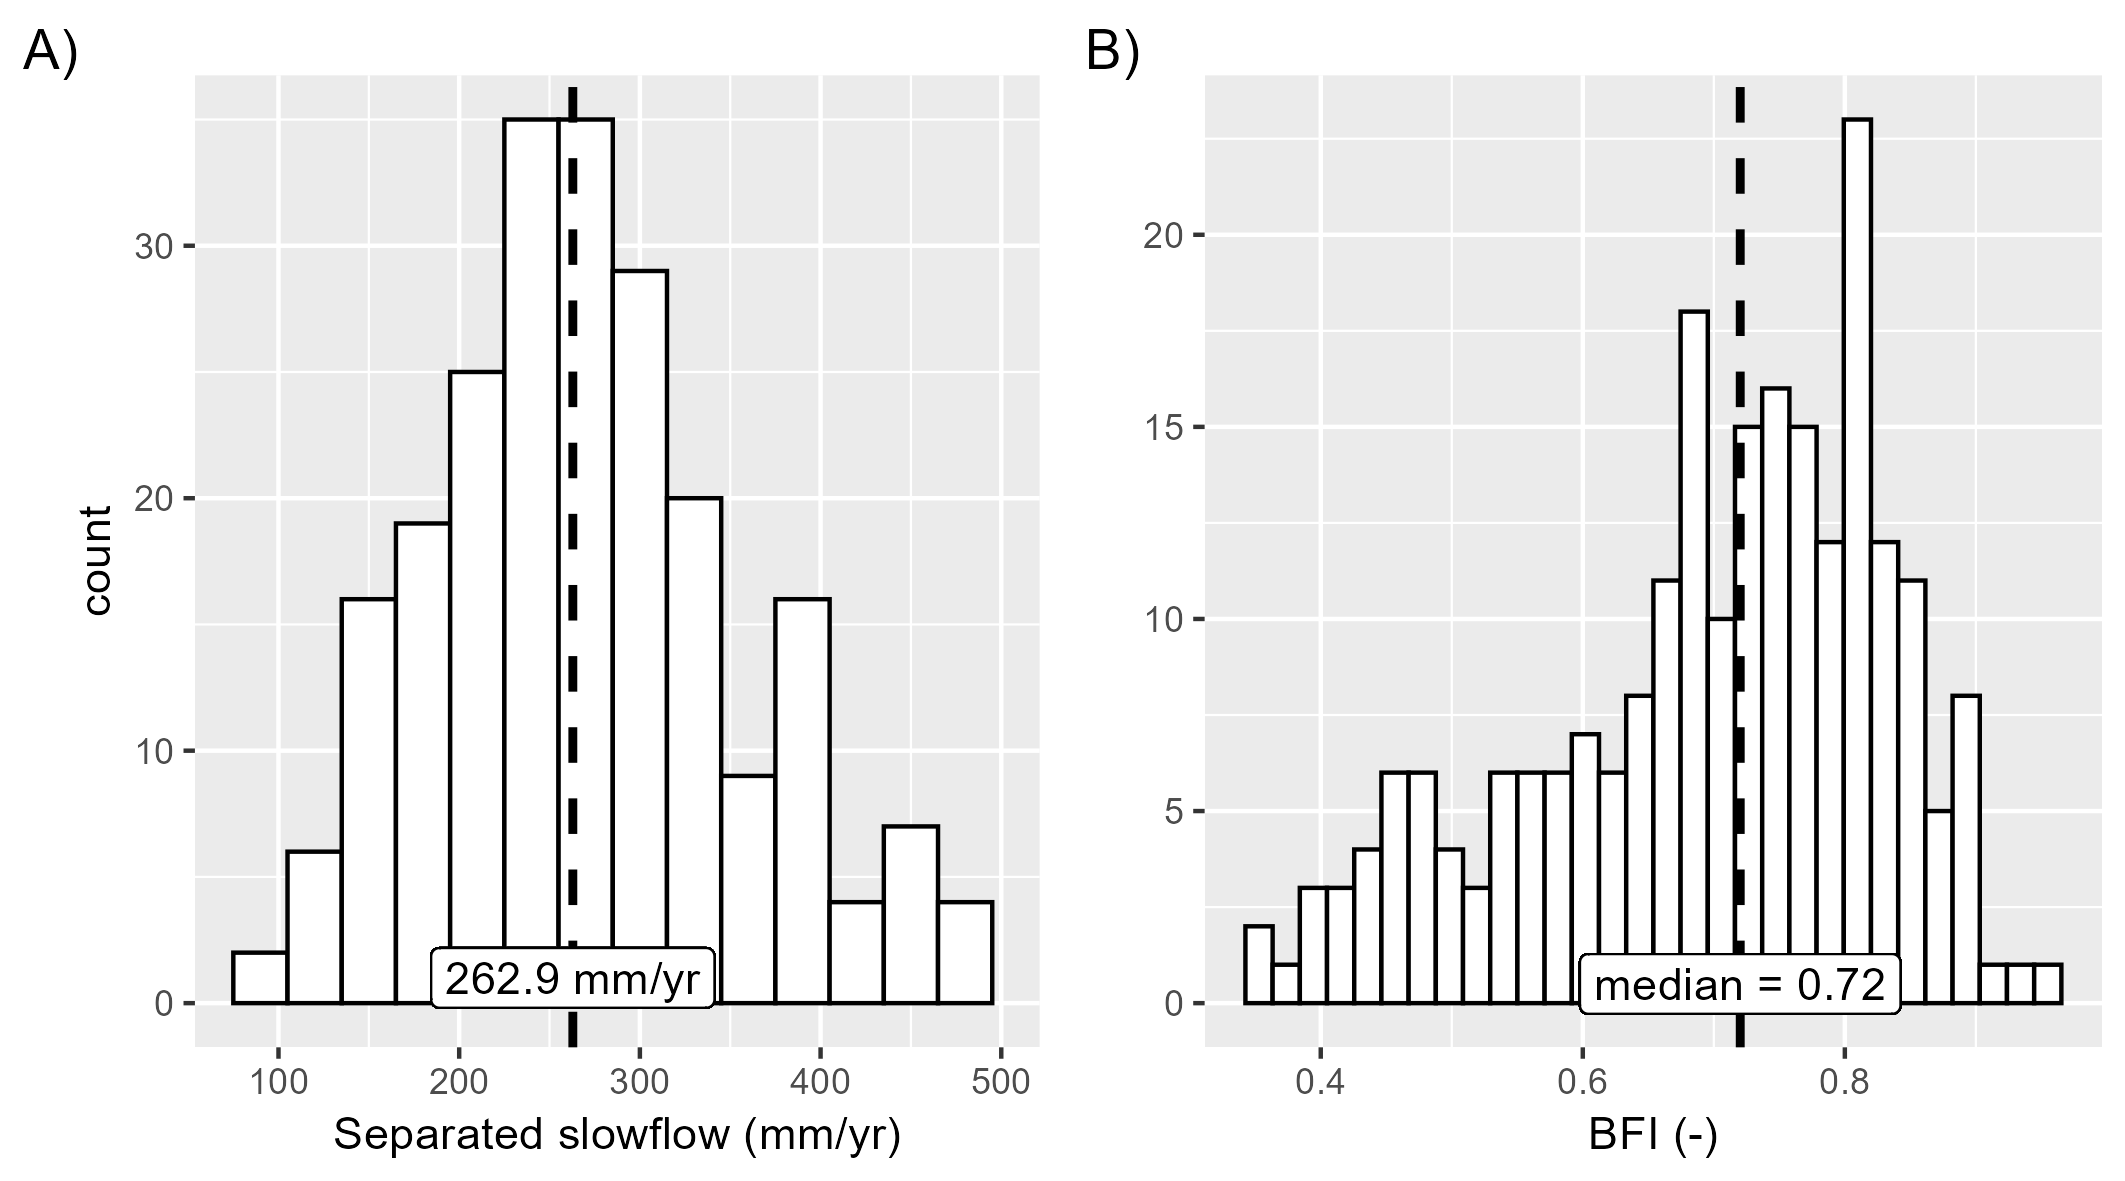
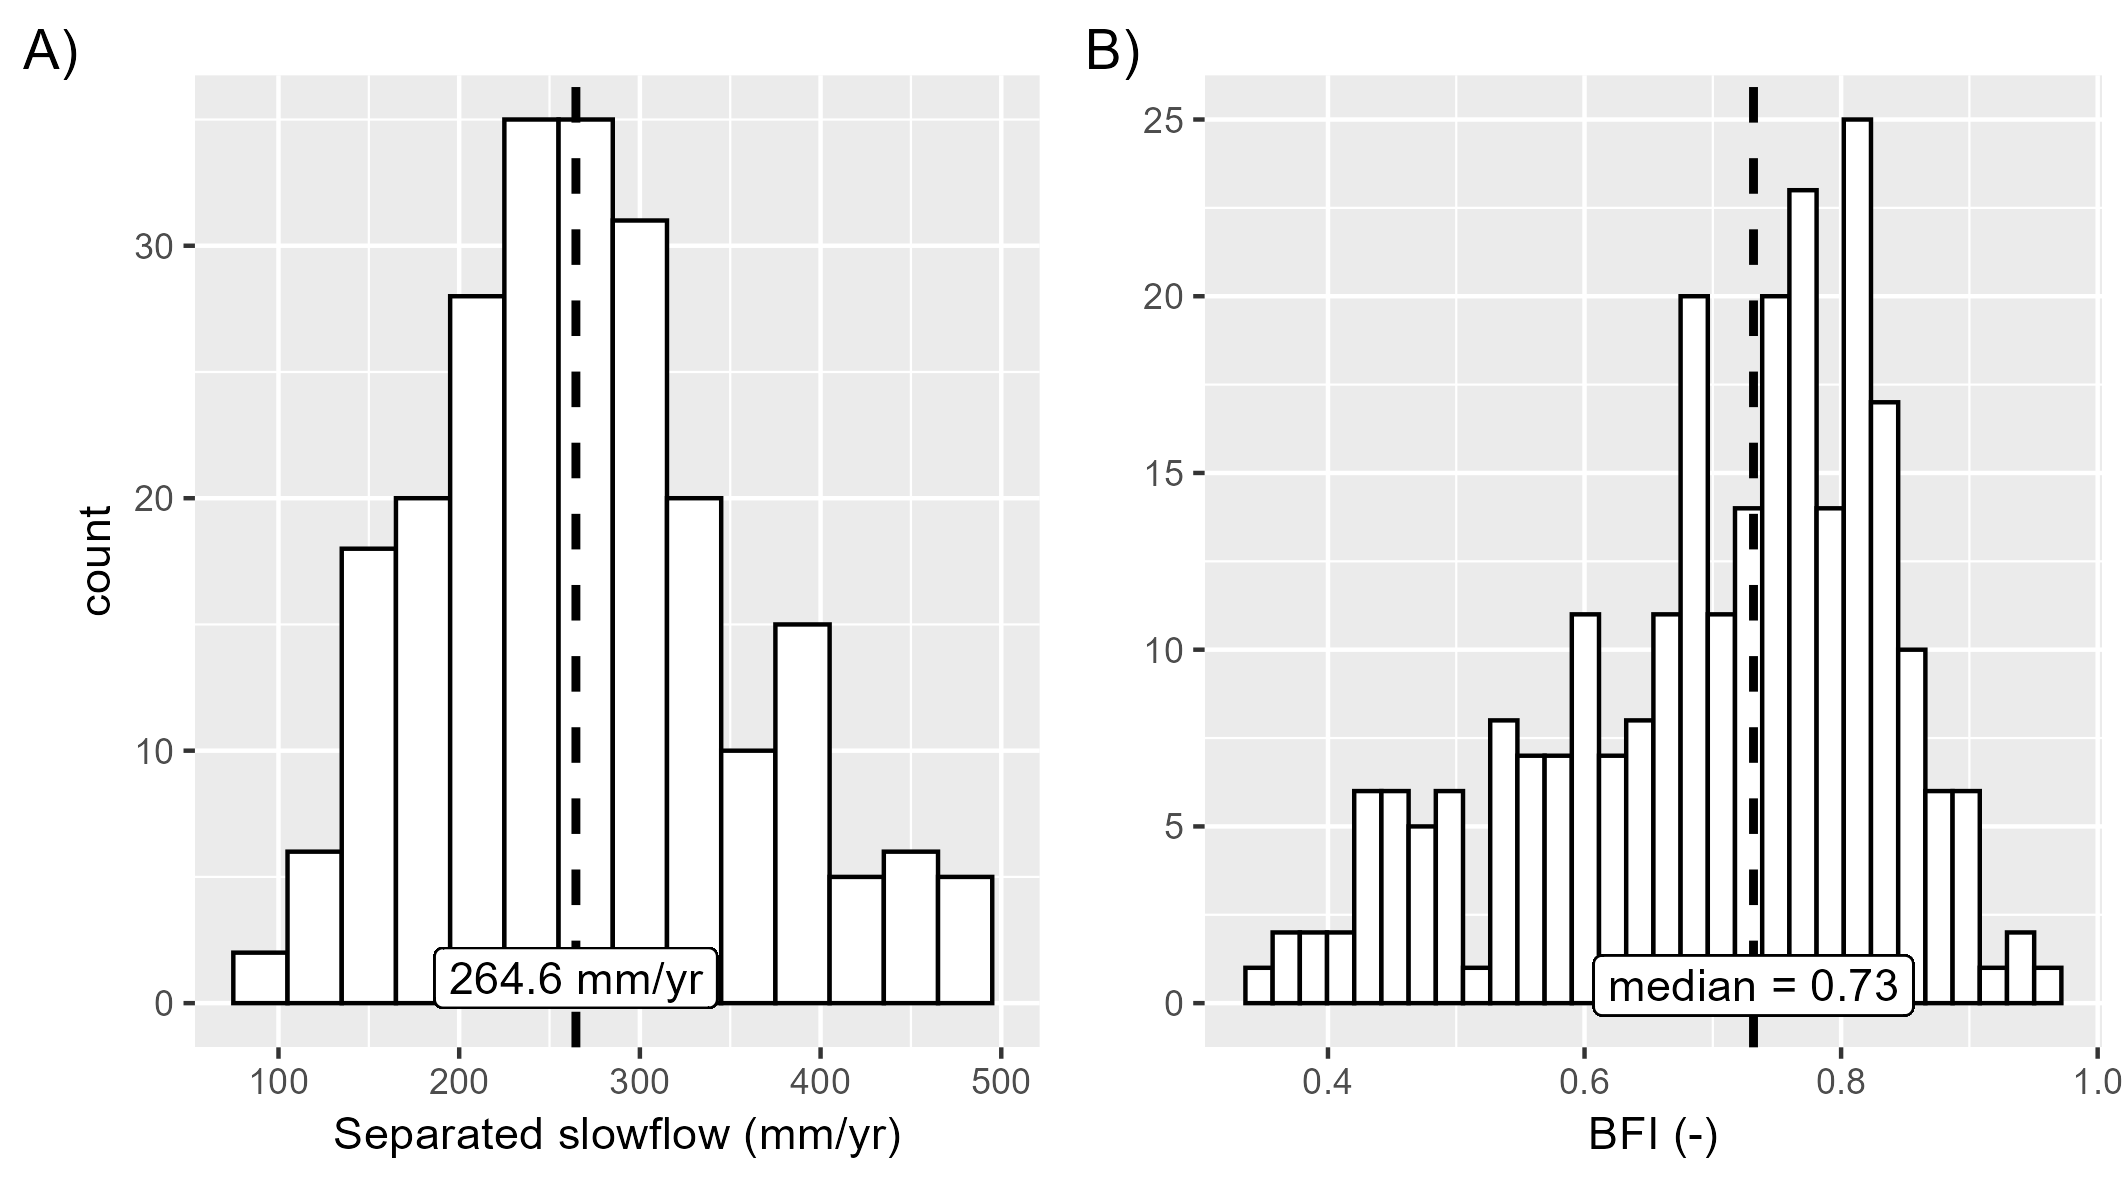
update baseflow piechart

diff --git a/md/baseflow-piechart.md b/md/baseflow-piechart.md
@@ -7,21 +7,24 @@ output: html_document
 
 ### Spatial distribution
 
-Hydrographs from over 200 stream gauges within our jurisdiction, all having greater than a 10 year period of record occurring sometime since the year 2000 and that is more than 75% complete, have been separated into their *slow flow* and *quick flow* components. Within our jurisdiction, it is assumed that the majority of slow flow (by volume) originates from groundwater sources, i.e., springs, seeps, losing reaches, etc.
+Hydrographs from more than 200 stream gauges within our jurisdiction were separated into *slow-flow* and *quick-flow* components. Each gauge has at least 10 years of record since 2000, with more than 75% of the record complete.
 
-Below are a number of pie charts, one for every gauge showing the relative proportion of slow flow (in brown) to quick flow (in blue). The diameter of the pie relates to the magnitude of total annual stream flow.
+Within the study area, most slow flow by volume is assumed to originate from groundwater discharge to streams through springs, seeps, and gaining stream reaches.
 
-`click on any pie chart to reveal station properties. Full-screen available in the top-left corner`
+The interactive map below displays one pie chart for each stream gauge. The brown portion represents the relative contribution of slow flow, while the blue portion represents quick flow. The diameter of each pie chart is proportional to the magnitude of mean annual total streamflow.
+
+`Click any pie chart to view the station properties. A full-screen option is available in the upper-left corner.`
 
 <iframe src="https://golang.oakridgeswater.ca/pages/baseflow-piechart.html" width="100%" height="400" scrolling="no" allowfullscreen></iframe>
 
-*please be patient while the map loads*
+*Please be patient while the map loads.*
+
 <br>
 
-The slow flow portion $(b)$ of the hydrograph is estimated as the median baseflow estimate of [14 automated hydrograph separation techniques](/info/hydrographseparation/).
+The slow-flow component, $(b)$, is estimated as the median baseflow value produced by [14 automated hydrograph-separation techniques](/info/hydrographseparation/).
 
 ### Histograms
 
-Below, the results from these gauges are summarized as histograms, revealing that two thirds of observed (total) stream flow comes from groundwater sources, which amounts to roughly 220 mm/yr, a quarter of annual precipitation.
+The distributions of slow flow and baseflow index (BFI) across the stream gauges are summarized in the histograms below. The results indicate that approximately two-thirds of observed streamflow is supplied by groundwater-derived slow flow. This represents roughly 220 mm per year, equivalent to approximately one-quarter of annual precipitation.
 
 ![baseflow-histogram](baseflow-histogram.png)
